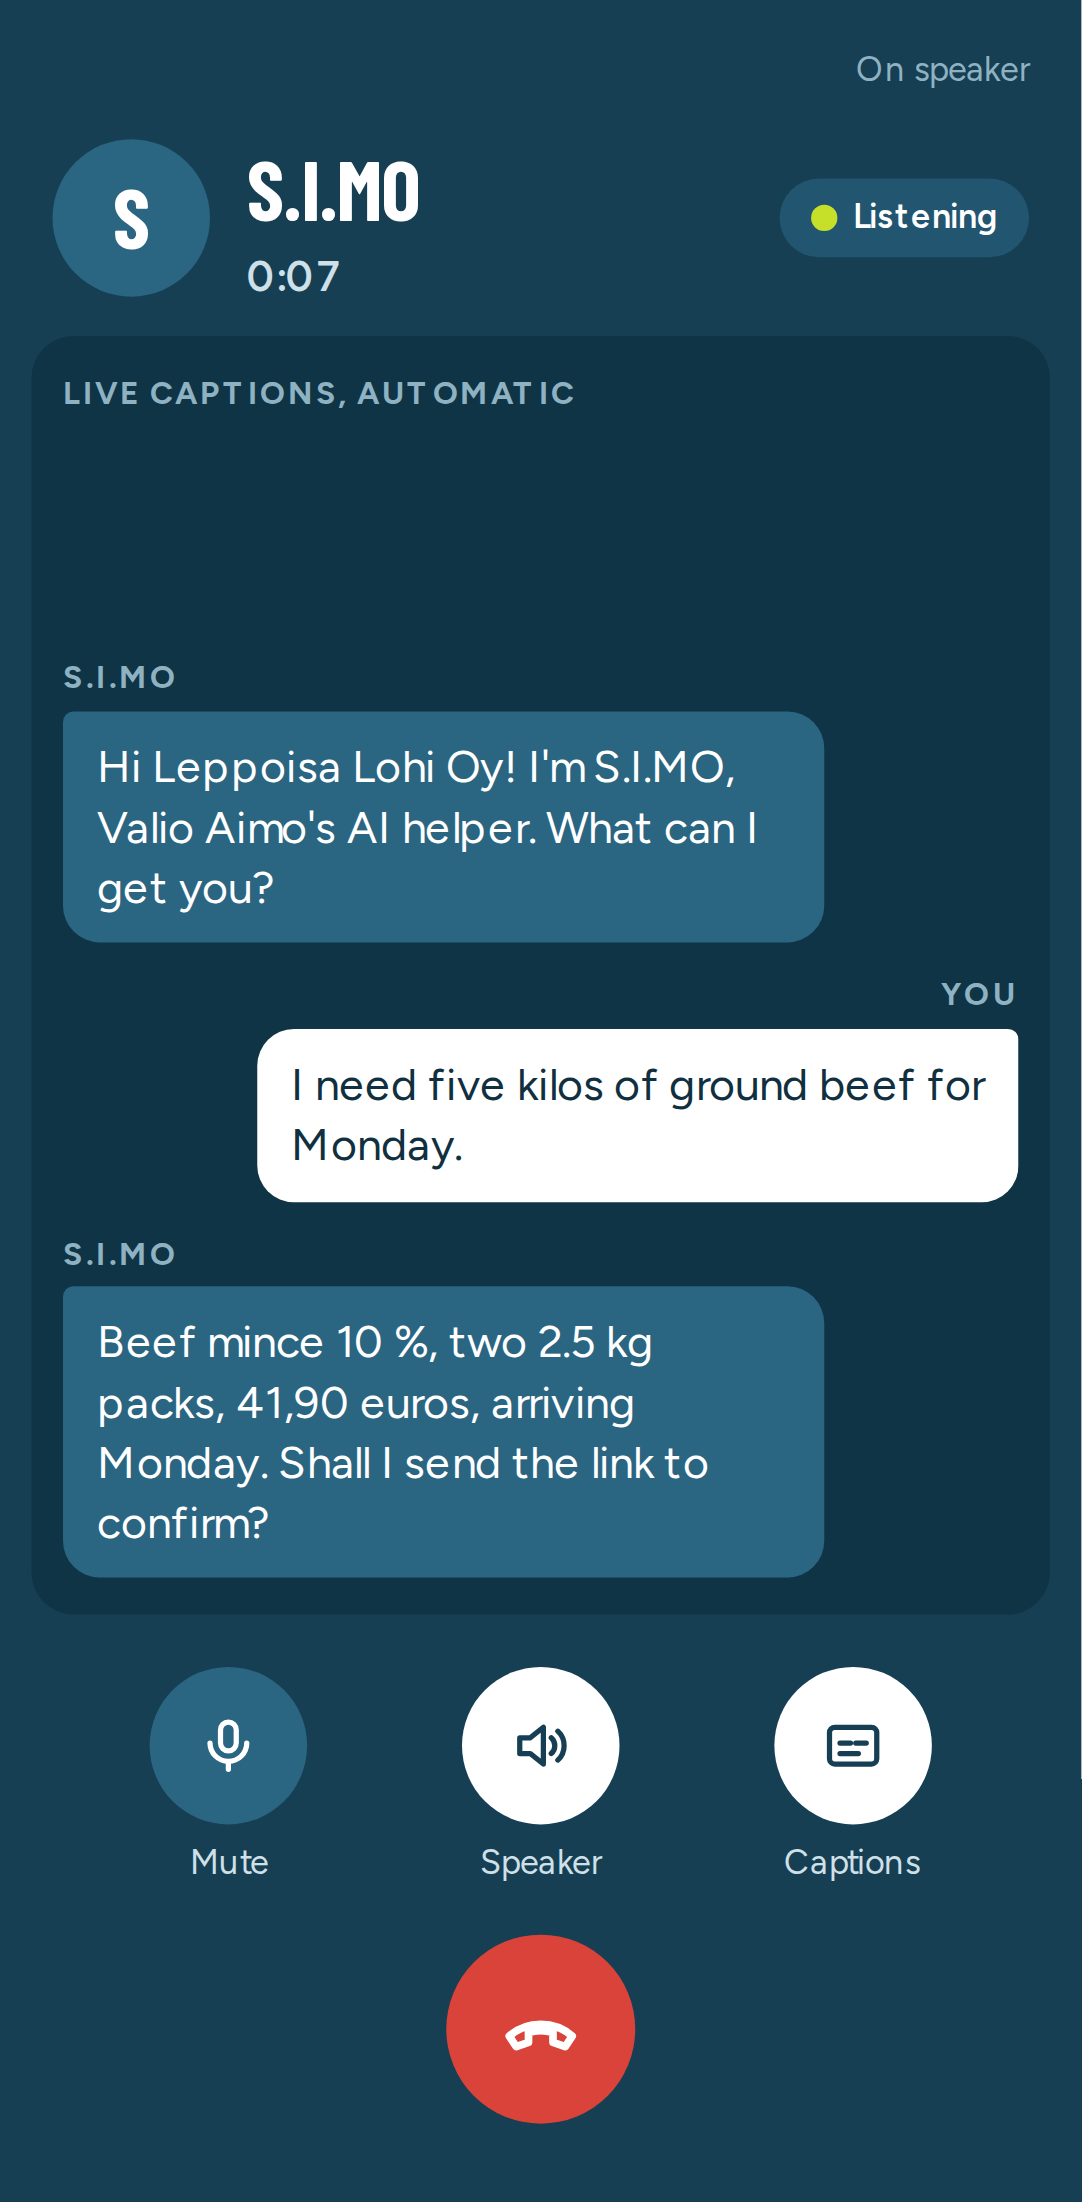
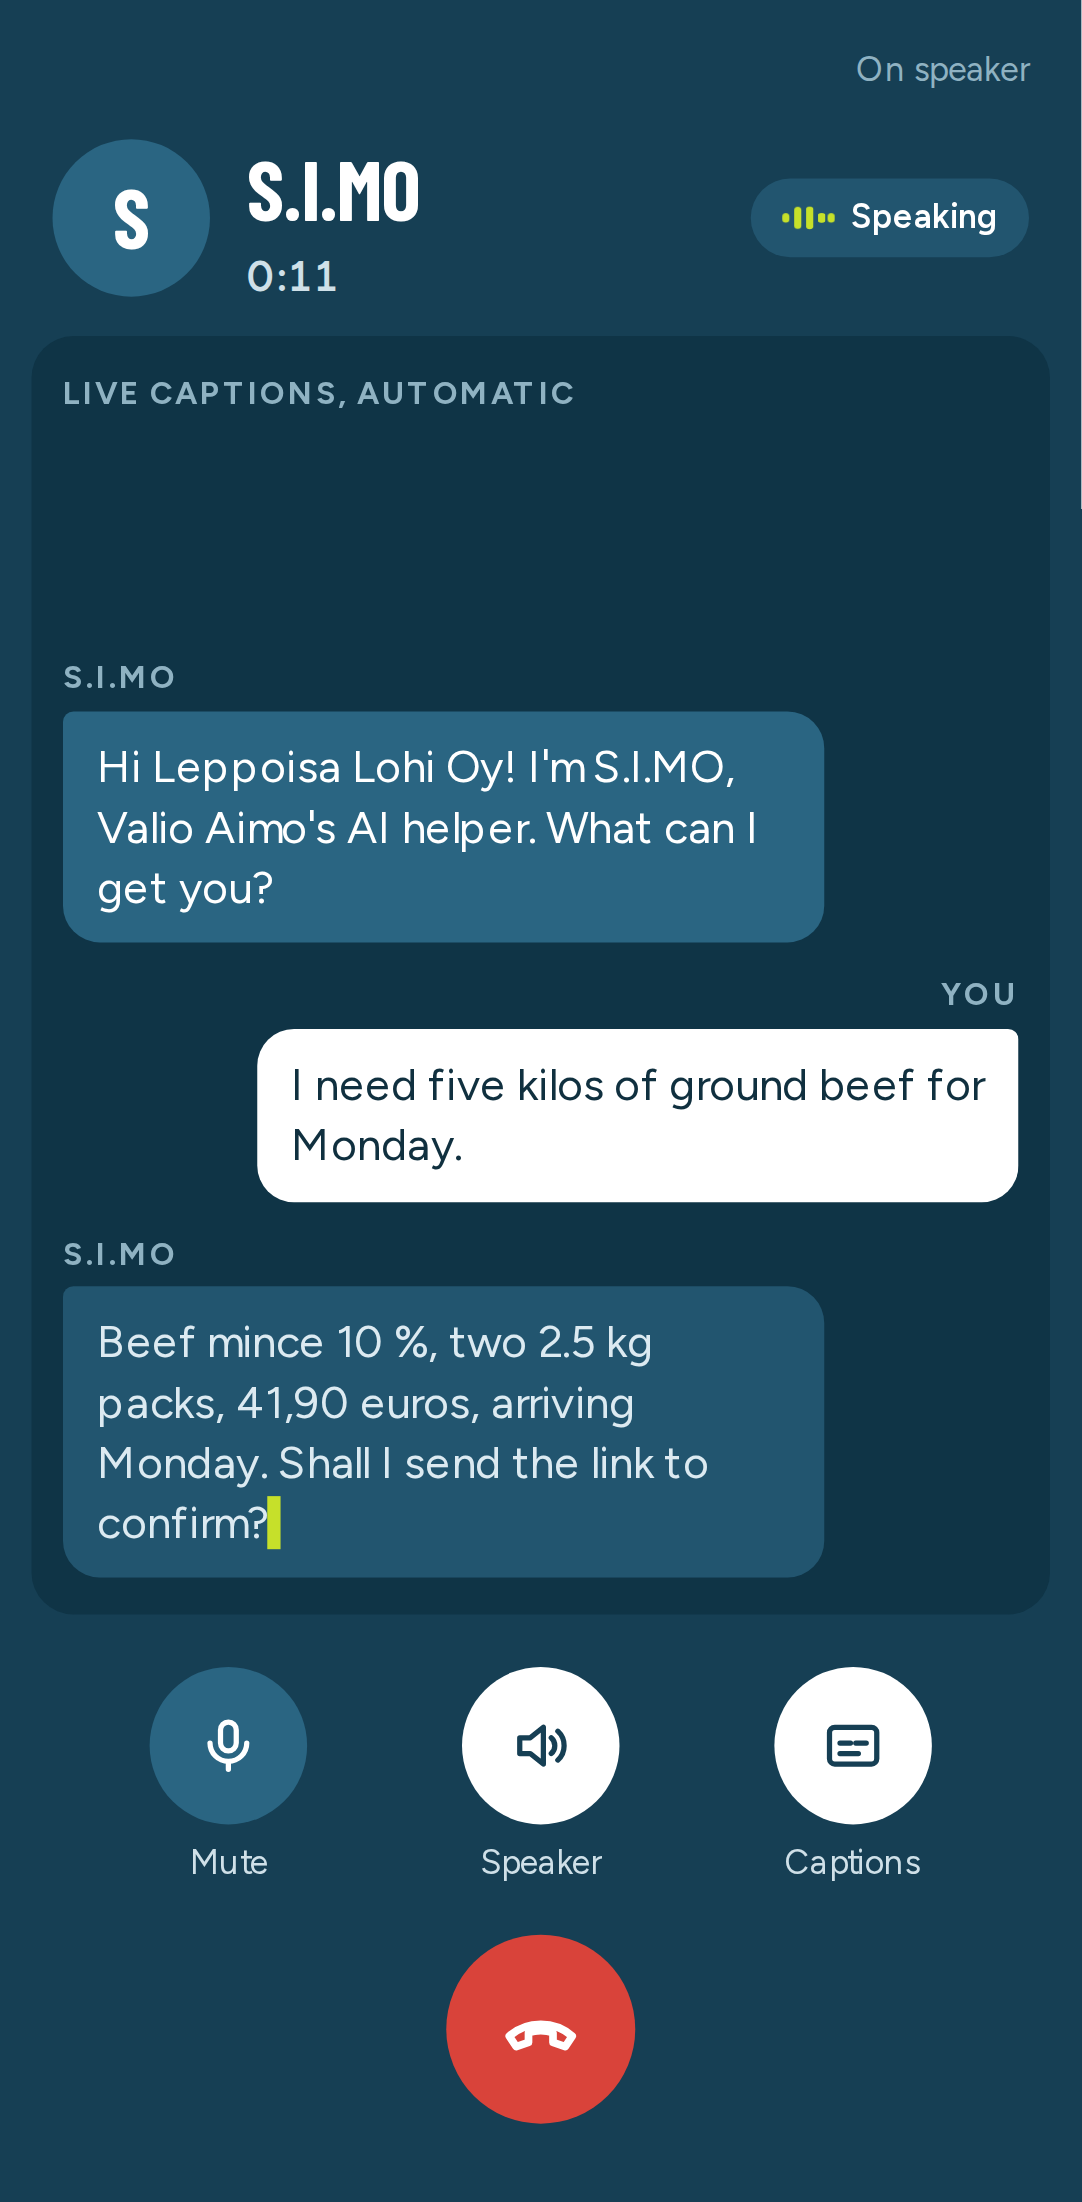
Send agent_state from the mock relay and test the indicator
The mock thinks for 0.8 s after each caller line, runs build_quote for
1.5 s when the order is put together and request_confirmation for 0.8 s
before the link. The cookie simo_mock_agent_state=off turns the message
off, so a test checks the fallback. The fake caller pauses longer so the
longer turns finish before they talk again.

Claude-Session: https://claude.ai/code/session_01A3RfQLmL6aWVmdts5GTfyc

diff --git a/web/src/lib/server/demo/relay.ts b/web/src/lib/server/demo/relay.ts
@@ -8,6 +8,9 @@
  *   speech-like hum) with `transcript` messages for both sides;
  * - notices the caller speaking from the audio level, and sends `interrupted`
  *   when the caller talks over the agent;
+ * - sends `agent_state` as S.I.MO listens, thinks (about 0.8 s after each caller
+ *   line), works on a tool (`build_quote` when the order is put together,
+ *   `request_confirmation` before the link) and speaks;
  * - on `hangup` (or when the agent ends the call, or the socket drops) sends
  *   `ended` and, if the caller agreed to the link, drops a message with a
  *   `/c/fx-ready-<id>` link into the fixture inbox.
@@ -16,6 +19,9 @@
  * next scripted line is shown as their caption. The caller agrees to the link on
  * their second turn, like `request_confirmation` after a clear yes.
  *
+ * With the cookie `simo_mock_agent_state=off`, it never sends `agent_state`, like a
+ * relay without it, so tests can check the browser's fallback.
+ *
  * Attached to the HTTP server by vite.config.ts (dev and preview) and by
  * mock/serve.ts (the production build). Not part of the SvelteKit app.
  * Imports use `.ts` so Node can load this file directly.
@@ -23,7 +29,14 @@
 import type { IncomingMessage, Server } from 'node:http';
 import type { Duplex } from 'node:stream';
 import { WebSocketServer, type RawData, type WebSocket } from 'ws';
-import { CLOSE_LIMIT, CLOSE_NO_SESSION, type EndedBy, type Lang, type ServerMessage } from '../../demo/types.ts';
+import {
+	CLOSE_LIMIT,
+	CLOSE_NO_SESSION,
+	type AgentState,
+	type EndedBy,
+	type Lang,
+	type ServerMessage
+} from '../../demo/types.ts';
 import { accountFor, deliverConfirmation, SESSION_COOKIE } from './fixture.ts';
 
 const IN_RATE = 16000;
@@ -35,12 +48,18 @@ const VOICE_RMS = 500;
 const ONSET_MS = 150;
 const END_SILENCE_MS = 600;
 const MAX_CALL_MS = 10 * 60 * 1000;
+/** S.I.MO thinks this long after each caller line, and briefly again after a tool result. */
+const THINK_MS = 800;
+const AFTER_TOOL_MS = 200;
+const AGENT_STATE_COOKIE = 'simo_mock_agent_state';
 
 interface Turn {
 	buyer: string;
 	agent: string;
 	agrees?: boolean;
 	endsCall?: boolean;
+	/** A tool S.I.MO calls before it answers, and how long it takes. */
+	tool?: { name: string; ms: number };
 }
 
 const SCRIPT: Record<Lang, { greeting: (company: string) => string; turns: Turn[]; more: Turn }> = {
@@ -49,12 +68,14 @@ const SCRIPT: Record<Lang, { greeting: (company: string) => string; turns: Turn[
 		turns: [
 			{
 				buyer: 'I need five kilos of ground beef for Monday.',
-				agent: 'Beef mince 10 %, two 2.5 kg packs, 41,90 euros, arriving Monday. Shall I send the link to confirm?'
+				agent: 'Beef mince 10 %, two 2.5 kg packs, 41,90 euros, arriving Monday. Shall I send the link to confirm?',
+				tool: { name: 'build_quote', ms: 1500 }
 			},
 			{
 				buyer: 'Yes, send it.',
 				agent: 'Done. The link comes to your phone when we hang up. Anything else?',
-				agrees: true
+				agrees: true,
+				tool: { name: 'request_confirmation', ms: 800 }
 			},
 			{ buyer: "No, that's all.", agent: "I'll send the link to your phone now. Bye!", endsCall: true }
 		],
@@ -65,9 +86,15 @@ const SCRIPT: Record<Lang, { greeting: (company: string) => string; turns: Turn[
 		turns: [
 			{
 				buyer: 'Tarvitsen viisi kiloa jauhelihaa maanantaiksi.',
-				agent: 'Naudan jauheliha 10 %, kaksi 2,5 kilon pakkausta, 41,90 euroa, perillä maanantaina. Lähetänkö vahvistuslinkin?'
+				agent: 'Naudan jauheliha 10 %, kaksi 2,5 kilon pakkausta, 41,90 euroa, perillä maanantaina. Lähetänkö vahvistuslinkin?',
+				tool: { name: 'build_quote', ms: 1500 }
 			},
-			{ buyer: 'Kyllä, lähetä.', agent: 'Selvä. Linkki tulee puhelimeesi, kun lopetamme puhelun. Muuta?', agrees: true },
+			{
+				buyer: 'Kyllä, lähetä.',
+				agent: 'Selvä. Linkki tulee puhelimeesi, kun lopetamme puhelun. Muuta?',
+				agrees: true,
+				tool: { name: 'request_confirmation', ms: 800 }
+			},
 			{ buyer: 'Ei muuta.', agent: 'Lähetän linkin puhelimeesi nyt. Hei hei!', endsCall: true }
 		],
 		more: { buyer: 'Vielä yksi asia.', agent: 'Kerro vain.' }
@@ -79,19 +106,20 @@ export function attachMockRelay(server: Server, path = '/voice/ws'): void {
 	server.on('upgrade', (request: IncomingMessage, socket: Duplex, head: Buffer) => {
 		const url = new URL(request.url ?? '/', 'http://localhost');
 		if (url.pathname !== path) return; // Vite's own HMR socket and anything else.
-		wss.handleUpgrade(request, socket, head, (ws) => runCall(ws, sessionFrom(request)));
+		const sendStates = cookie(request, AGENT_STATE_COOKIE) !== 'off';
+		wss.handleUpgrade(request, socket, head, (ws) => runCall(ws, cookie(request, SESSION_COOKIE), sendStates));
 	});
 }
 
-function sessionFrom(request: IncomingMessage): string | null {
+function cookie(request: IncomingMessage, wanted: string): string | null {
 	for (const part of (request.headers.cookie ?? '').split(';')) {
 		const [name, ...value] = part.trim().split('=');
-		if (name === SESSION_COOKIE) return decodeURIComponent(value.join('='));
+		if (name === wanted) return decodeURIComponent(value.join('='));
 	}
 	return null;
 }
 
-function runCall(ws: WebSocket, sessionId: string | null): void {
+function runCall(ws: WebSocket, sessionId: string | null, sendStates: boolean): void {
 	const account = accountFor(sessionId);
 	if (!sessionId || !account) {
 		ws.close(CLOSE_NO_SESSION, 'No demo session');
@@ -127,9 +155,19 @@ function runCall(ws: WebSocket, sessionId: string | null): void {
 		timers.add(timer);
 	};
 
+	// `agent_state`, sent only when it changes.
+	let agentState: AgentState | null = null;
+	let agentTool: string | null = null;
+	const setState = (state: AgentState, tool: string | null = null) => {
+		if (!sendStates || (state === agentState && tool === agentTool)) return;
+		agentState = state;
+		agentTool = tool;
+		send({ type: 'agent_state', state, tool });
+	};
+
 	function speak(text: string, after?: () => void): void {
 		const words = text.split(' ');
-		const durationMs = Math.min(2400, Math.max(1000, words.length * 170));
+		const durationMs = Math.min(2000, Math.max(1000, words.length * 150));
 		const pcm = speechLike(durationMs / 1000);
 		const bytesPerChunk = (OUT_RATE * 2 * CHUNK_MS) / 1000;
 		let offset = 0;
@@ -143,6 +181,7 @@ function runCall(ws: WebSocket, sessionId: string | null): void {
 		const interval = setInterval(() => {
 			if (ended || ws.readyState !== ws.OPEN) return clearInterval(interval);
 			if (offset < pcm.length) {
+				if (offset === 0) setState('speaking');
 				ws.send(pcm.subarray(offset, offset + bytesPerChunk));
 				offset += bytesPerChunk;
 			}
@@ -157,6 +196,7 @@ function runCall(ws: WebSocket, sessionId: string | null): void {
 				clearInterval(interval);
 				send({ type: 'transcript', who: 'agent', text, final: true });
 				speech = null;
+				setState('listening');
 				after?.();
 			}
 		}, CHUNK_MS);
@@ -166,6 +206,7 @@ function runCall(ws: WebSocket, sessionId: string | null): void {
 		if (!speech) return;
 		speech.stop();
 		send({ type: 'interrupted' });
+		setState('listening');
 		send({ type: 'transcript', who: 'agent', text: speech.words.slice(0, speech.sent).join(' '), final: true });
 		speech = null;
 	}
@@ -175,7 +216,17 @@ function runCall(ws: WebSocket, sessionId: string | null): void {
 		buyerTurns++;
 		send({ type: 'transcript', who: 'buyer', text: turn.buyer, final: true });
 		if (turn.agrees) agreed = true;
-		later(500, () => speak(turn.agent, turn.endsCall ? () => later(400, () => finish('agent')) : undefined));
+		const answer = () => speak(turn.agent, turn.endsCall ? () => later(400, () => finish('agent')) : undefined);
+		setState('thinking');
+		later(THINK_MS, () => {
+			if (!turn.tool) return answer();
+			const tool = turn.tool;
+			setState('working', tool.name);
+			later(tool.ms, () => {
+				setState('thinking'); // The tool result went back to Gemini.
+				later(AFTER_TOOL_MS, answer);
+			});
+		});
 	}
 
 	function onAudio(data: Buffer): void {
@@ -238,6 +289,7 @@ function runCall(ws: WebSocket, sessionId: string | null): void {
 
 	later(300, () => {
 		send({ type: 'ready' });
+		setState('listening');
 		later(200, () => speak(script.greeting(account.company_name)));
 	});
 	later(MAX_CALL_MS, () => finish('time_limit'));

diff --git a/web/tests/phone.spec.ts b/web/tests/phone.spec.ts
@@ -23,6 +23,11 @@ async function setUp(page: Page, phone = number(), kitchen: string[] = []) {
 }
 
 const captions = (page: Page, who: 'agent' | 'buyer') => page.getByTestId(`caption-${who}`);
+/** The activity indicator in one state. Short states are caught with waitFor, which polls every frame. */
+const indicator = (page: Page, state: string) => page.locator(`[data-testid="indicator"][data-state="${state}"]`);
+
+// The fake caller pauses 5.5 s between lines, so a scripted call takes a while.
+test.describe.configure({ timeout: 60_000 });
 
 test('start page leads to the demo phone', async ({ page, isMobile }) => {
 	await page.goto('/');
@@ -60,9 +65,22 @@ test('call, captions, hang up, notification, inbox link opens the confirmation p
 	// The agent greets, the timer runs, the caller's lines arrive as captions.
 	await expect(captions(page, 'agent').first()).toContainText('AI helper', { timeout: 10_000 });
 	await expect(page.getByTestId('timer')).toHaveText(/^0:0\d$/);
-	await expect(captions(page, 'buyer').first()).toContainText('five kilos of ground beef', { timeout: 15_000 });
+	await indicator(page, 'listening').waitFor({ timeout: 10_000 });
+
+	// After the caller's line: thinking, then checking products (build_quote), then speaking.
+	await indicator(page, 'thinking').waitFor({ timeout: 15_000 });
+	await expect(captions(page, 'buyer').first()).toContainText('five kilos of ground beef');
+	await indicator(page, 'working').waitFor({ timeout: 5_000 });
+	await expect(page.getByTestId('indicator')).toHaveText('Checking products...');
+	await expect(page.getByTestId('agent-busy')).toHaveText('S.I.MO Checking products...');
+	await indicator(page, 'speaking').waitFor({ timeout: 5_000 });
+	await expect(page.getByTestId('agent-busy')).toHaveCount(0);
 	await expect(captions(page, 'agent').nth(1)).toContainText('Shall I send the link', { timeout: 10_000 });
+
+	// Before the link: preparing it (request_confirmation).
 	await expect(captions(page, 'buyer').nth(1)).toContainText('Yes, send it.', { timeout: 15_000 });
+	await indicator(page, 'working').waitFor({ timeout: 5_000 });
+	await expect(page.getByTestId('indicator')).toHaveText('Preparing your order link...');
 	await expect(captions(page, 'agent').nth(2)).toContainText('The link comes to your phone', { timeout: 10_000 });
 
 	await page.getByRole('button', { name: 'Hang up' }).click();
@@ -131,6 +149,24 @@ test('mute and captions toggle during the call', async ({ page }) => {
 	await expect(page.getByTestId('call-ended')).toBeVisible();
 });
 
+test('a relay without agent_state still shows speaking and listening', async ({ page, context, baseURL }) => {
+	await context.addCookies([{ name: 'simo_mock_agent_state', value: 'off', url: baseURL! }]);
+	await setUp(page);
+	await page.getByRole('button', { name: 'Call S.I.MO' }).click();
+
+	// Inferred from the audio the page plays: speaking during the greeting, then listening.
+	await indicator(page, 'speaking').waitFor({ timeout: 10_000 });
+	await expect(captions(page, 'agent').first()).toContainText('AI helper', { timeout: 10_000 });
+	await indicator(page, 'listening').waitFor({ timeout: 10_000 });
+	await expect(captions(page, 'buyer').first()).toContainText('five kilos', { timeout: 15_000 });
+	await expect(captions(page, 'agent').nth(1)).toContainText('Shall I send the link', { timeout: 10_000 });
+	await expect(page.getByTestId('agent-busy')).toHaveCount(0);
+	await expect(indicator(page, 'thinking')).toHaveCount(0);
+
+	await page.getByRole('button', { name: 'Hang up' }).click();
+	await expect(page.getByTestId('call-ended')).toBeVisible();
+});
+
 test('the caller can talk over the agent', async ({ page }) => {
 	// A microphone that stays quiet, then talks 1.3 s in, in the middle of the greeting.
 	await page.addInitScript(() => {
@@ -162,7 +198,7 @@ test('the caller can talk over the agent', async ({ page }) => {
 test('an SMS line shows only when an SMS went out', async ({ page }) => {
 	await setUp(page, number('7001'));
 	await page.getByRole('button', { name: 'Call S.I.MO' }).click();
-	await expect(captions(page, 'agent').nth(2)).toContainText('The link comes to your phone', { timeout: 25_000 });
+	await expect(captions(page, 'agent').nth(2)).toContainText('The link comes to your phone', { timeout: 40_000 });
 	await page.getByRole('button', { name: 'Hang up' }).click();
 	await expect(page.getByTestId('sms-line')).toHaveText(/^Also sent by SMS to \+358 40 \*\*\* \*\*01$/);
 	await expect(page.getByTestId('notification')).toBeVisible();

diff --git a/web/tests/phone-screenshots.spec.ts b/web/tests/phone-screenshots.spec.ts
@@ -16,7 +16,7 @@ async function shot(page: Page, project: string, name: string, fullPage = false)
 }
 
 test('phone screenshots', async ({ page }, info) => {
-	test.setTimeout(60_000);
+	test.setTimeout(90_000);
 	const project = info.project.name;
 
 	await page.goto('/');
@@ -34,9 +34,11 @@ test('phone screenshots', async ({ page }, info) => {
 	await shot(page, project, '11-contacts');
 
 	await page.getByRole('button', { name: 'Call S.I.MO' }).click();
+	await page.locator('[data-testid="indicator"][data-state="working"]').waitFor({ timeout: 20_000 });
+	await shot(page, project, '12-in-call-working');
 	await expect(page.getByTestId('caption-agent').nth(1)).toContainText('Shall I send the link', { timeout: 15_000 });
 	await shot(page, project, '12-in-call');
-	await expect(page.getByTestId('caption-agent').nth(2)).toContainText('The link comes', { timeout: 15_000 });
+	await expect(page.getByTestId('caption-agent').nth(2)).toContainText('The link comes', { timeout: 25_000 });
 
 	await page.getByRole('button', { name: 'Hang up' }).click();
 	await expect(page.getByTestId('notification')).toBeVisible();

diff --git a/web/tests/support/fake-voice.ts b/web/tests/support/fake-voice.ts
@@ -1,16 +1,17 @@
 /**
  * A WAV file for Chromium's fake microphone (`--use-file-for-fake-audio-capture`),
- * so the call tests have a caller who talks: 3.5 s of silence, then 1.2 s of a
+ * so the call tests have a caller who talks: 5.5 s of silence, then 1.2 s of a
  * speech-like hum, over and over. The mock relay hears each hum as one utterance.
- * The silence is long enough for each scripted agent reply (at most 2.4 s) to
- * finish before the caller talks again, so the agent is not interrupted.
+ * The silence is long enough for each scripted reply (0.6 s to notice the end of
+ * the line, 0.8 s thinking, up to 1.7 s working, at most 2 s of speech) to finish
+ * before the caller talks again, so the agent is not interrupted.
  */
 import { writeFileSync } from 'node:fs';
 import { tmpdir } from 'node:os';
 import { join } from 'node:path';
 
 const RATE = 48000;
-export const SILENCE_S = 3.5;
+export const SILENCE_S = 5.5;
 export const VOICE_S = 1.2;
 
 export function writeFakeVoice(): string {
